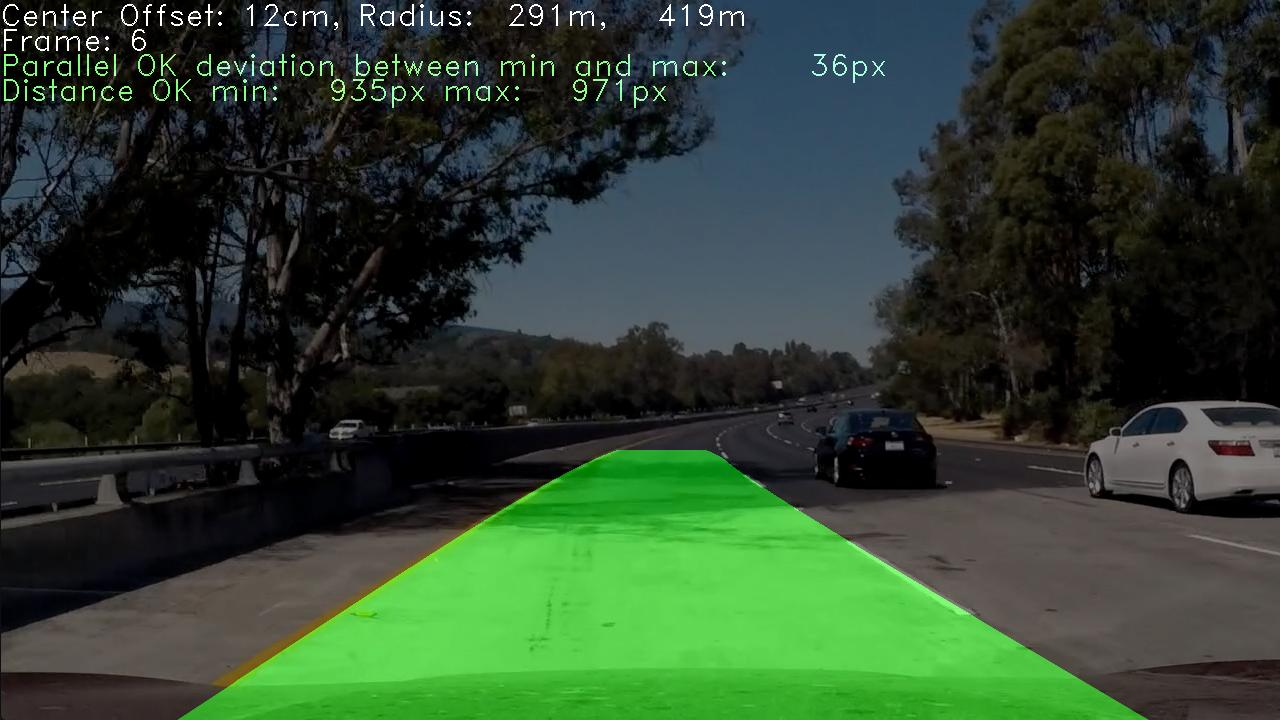
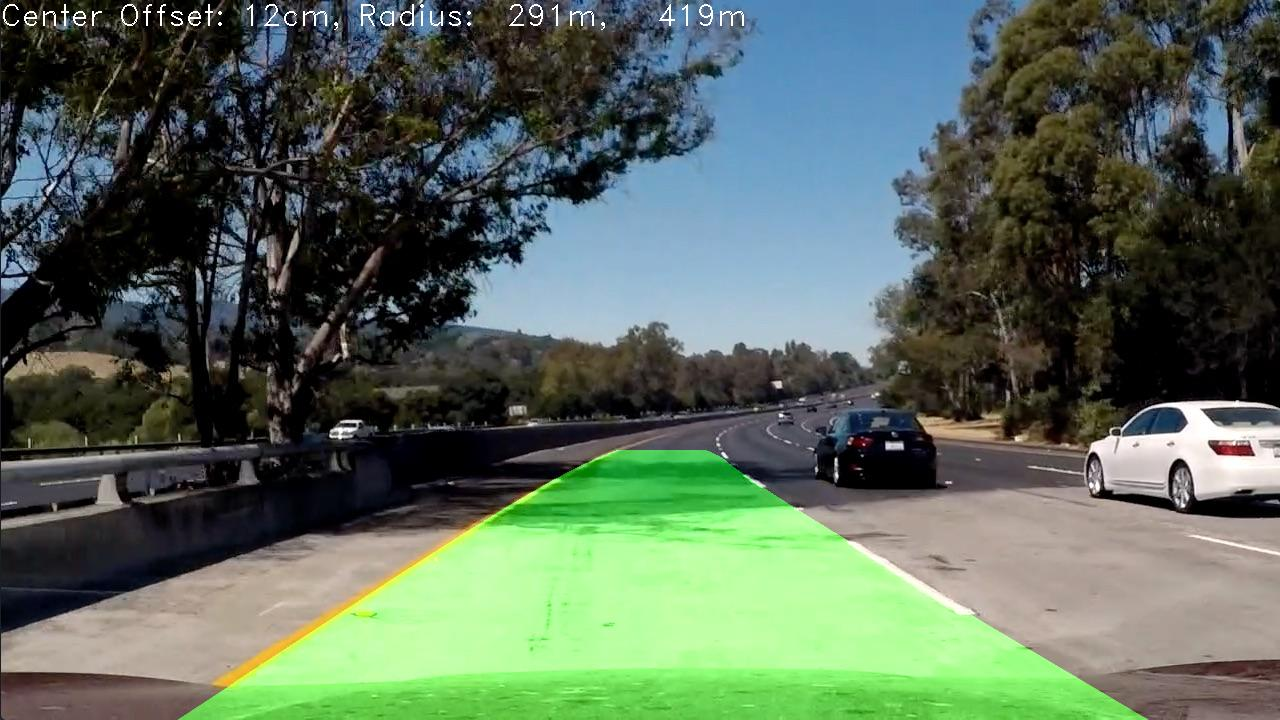
P02 overlays off, tested for hand in

diff --git a/P02_AdvancedLaneLines/src/image_processor.py b/P02_AdvancedLaneLines/src/image_processor.py
@@ -77,6 +77,7 @@ class ImageProcessor:
 
     @classmethod
     def do(cls, img, show_dbg=False):
+        verbose = False
         # orig perspective
         img_undistorted = cls.camera.undistort(img)
         bin_undistorted = combined_threshold_3(img_undistorted, show_dbg and False)
@@ -99,7 +100,6 @@ class ImageProcessor:
         if cls.txt1 == None or cls.frame_count % 1 == 0:
             cls.txt1 = "Center Offset:{:3d}cm, Radius:{:5d}m, {:5d}m".format(int(center_dist_m*100), int(left_r_m), int(right_r_m))
         cv2.putText(img_overlay_screen, cls.txt1, (0, 25), cv2.QT_FONT_NORMAL, 1, color=(255, 255, 255))
-        cv2.putText(img_overlay_screen, 'Frame: {:d}'.format(cls.frame_count), (0, 50), cv2.QT_FONT_NORMAL, 1, color=(255, 255, 255))
 
         # sanity checks
         lline = Line(cls.frame_count, 'left', img.shape[0], left_fit_px, 1)
@@ -107,7 +107,10 @@ class ImageProcessor:
         sanity_res, check_total_count, sanity_details = cls.sanity_checks(lline, rline, left_fit_px, right_fit_px)
         sanity_count = np.count_nonzero(sanity_res)
         sanity_max = len(sanity_res)
-        cls.sanity_to_img(img_overlay_screen, sanity_details)
+
+        if verbose:
+            cls.sanity_to_img(img_overlay_screen, sanity_details)
+            cv2.putText(img_overlay_screen, 'Frame: {:d}'.format(cls.frame_count), (0, 50), cv2.QT_FONT_NORMAL, 1, color=(255, 255, 255))
 
         # apply prior info
         enable_history = True
@@ -116,17 +119,19 @@ class ImageProcessor:
         if enable_history and cls.left_history and cls.right_history:  ################################################# enable / disable history here
             # use current line if good, otherwise try to use stored lines if they are good
             if cls.frame_count == 874:  ##################################################### DEBUG
-                print('x')
+                dummy = None
             if sanity_res[0] and sanity_res[1]:  # parallel and dist ok
                 lline.quality, rline.quality = 5, 5
 
                 has_left_line, left_fit_px = cls.left_history.update(lline)  # use avg and update
                 has_right_line, right_fit_px = cls.right_history.update(rline)
                 if has_left_line or has_right_line:
-                    cv2.putText(img_overlay_screen, 'Lines: current fit smoothed', (830, 25), cv2.QT_FONT_NORMAL, 1, color=(128, 255, 128))
+                    if verbose:
+                        cv2.putText(img_overlay_screen, 'Lines: current fit smoothed', (830, 25), cv2.QT_FONT_NORMAL, 1, color=(128, 255, 128))
                 else:  # avg is not usable, fallback to current fit without smoothing
                     left_fit_px, right_fit_px = left_fit_px_archive, right_fit_px_archive
-                    cv2.putText(img_overlay_screen, 'Lines: bad avg, falling back to current', (830, 25), cv2.QT_FONT_NORMAL, 1, color=(128, 255, 128))
+                    if verbose:
+                        cv2.putText(img_overlay_screen, 'Lines: bad avg, falling back to current', (830, 25), cv2.QT_FONT_NORMAL, 1, color=(128, 255, 128))
             else:
                 # lline.quality = 5 - (check_total_count - check_ok_count)
                 # rline.quality = 5 - (check_total_count - check_ok_count)
@@ -135,18 +140,22 @@ class ImageProcessor:
                 has_left_line, left_fit_px = cls.left_history.get_avg_coeffs_and_remove(quality_limit=5)  # use avg, do not update
                 has_right_line, right_fit_px = cls.right_history.get_avg_coeffs_and_remove(quality_limit=5)
                 if has_left_line and has_right_line:
-                    cv2.putText(img_overlay_screen, 'Lines: from memory', (830, 25), cv2.QT_FONT_NORMAL, 1, color=(255, 170, 0))
+                    if verbose:
+                        cv2.putText(img_overlay_screen, 'Lines: from memory', (830, 25), cv2.QT_FONT_NORMAL, 1, color=(255, 170, 0))
 
         # display lane poly
         if has_left_line and has_right_line:
             draw_polys_inplace(left_fit_px, right_fit_px, img_overlay_for_unwarp, show_dbg and True)
         else:
             draw_polys_inplace(left_fit_px_archive, right_fit_px_archive, img_overlay_for_unwarp, show_dbg and True)
-            cv2.putText(img_overlay_screen, 'Lines: missing', (830, 25), cv2.QT_FONT_NORMAL, 1, color=(255, 255, 255))
+            if verbose:
+                cv2.putText(img_overlay_screen, 'Lines: missing', (830, 25), cv2.QT_FONT_NORMAL, 1, color=(255, 255, 255))
 
         # render the overlays
         img_persp_overlay = warp(img_overlay_for_unwarp, cls.camera.perspective_inv_matrix, show_dbg and False)
-        combined = cv2.addWeighted(img, 0.5, img_persp_overlay, 1.0, 0.)
+        #combined = cv2.addWeighted(img, 0.5, img_persp_overlay, 1.0, 0.)
+        #combined = cv2.addWeighted(combined, 1.0, img_overlay_screen, 1.0, 0.)
+        combined = cv2.addWeighted(img, 1.0, img_persp_overlay, 1.0, 0.)
         combined = cv2.addWeighted(combined, 1.0, img_overlay_screen, 1.0, 0.)
 
         cls.frame_count += 1

diff --git a/P02_AdvancedLaneLines/src/main.py b/P02_AdvancedLaneLines/src/main.py
@@ -49,8 +49,8 @@ def process_video(video_path):
 
     basename = os.path.basename(video_path)
     outpath = CFG['videos_out_dir'] + basename
-    clip = VideoFileClip(video_path, audio=False).subclip(0, 10)  ################################ TODO: use full videos
-    #clip = VideoFileClip(video_path, audio=False)
+    #clip = VideoFileClip(video_path, audio=False).subclip(0, 10)  ################################ TODO: use full videos
+    clip = VideoFileClip(video_path, audio=False)
 
     # Reinit for each video of possible different image sizes
     histories = (LineHistory('left'), LineHistory('right'))
@@ -71,15 +71,15 @@ def main():
                               show_dbg=True,
                               )
     # Uncomment this to generate camera calibration test images:
-    # camera.generate_test_images(CFG['calibration_image_path'], CFG['calibration_test_target_dir'])
+    GLOBAL['camera'].generate_test_images(CFG['calibration_image_path'], CFG['calibration_test_target_dir'])
 
     img_source = mpimg.imread('../input/road_images/test4.jpg')
     ImageProcessor.init((img_source.shape[1], img_source.shape[0]), GLOBAL['camera'], show_dbg=True)
-    # process_still_images()
+    process_still_images()
 
     process_video(CFG['videos_dir'] + 'project_video.mp4')
-    process_video(CFG['videos_dir'] + 'challenge_video.mp4')
-    process_video(CFG['videos_dir'] + 'harder_challenge_video.mp4')
+    #process_video(CFG['videos_dir'] + 'challenge_video.mp4')
+    #process_video(CFG['videos_dir'] + 'harder_challenge_video.mp4')
 
 
 if __name__ == '__main__':
